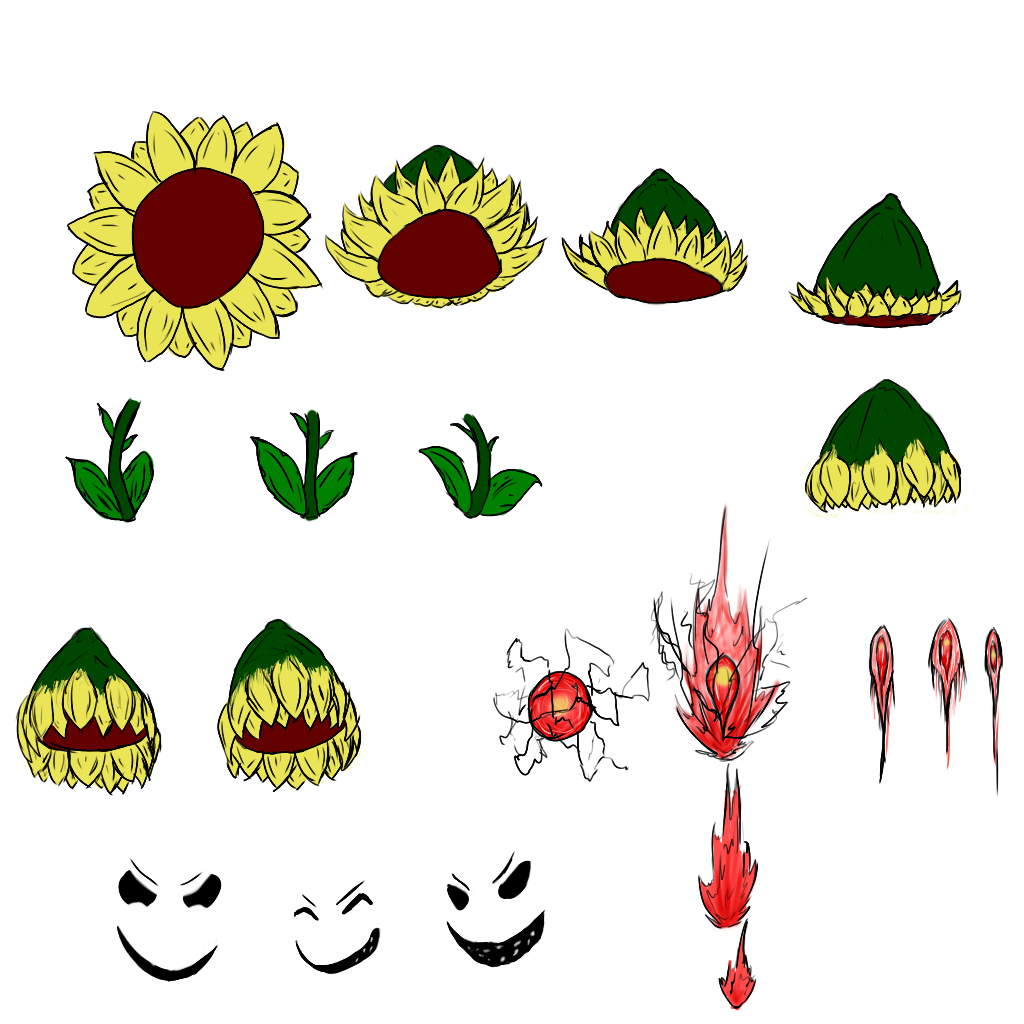
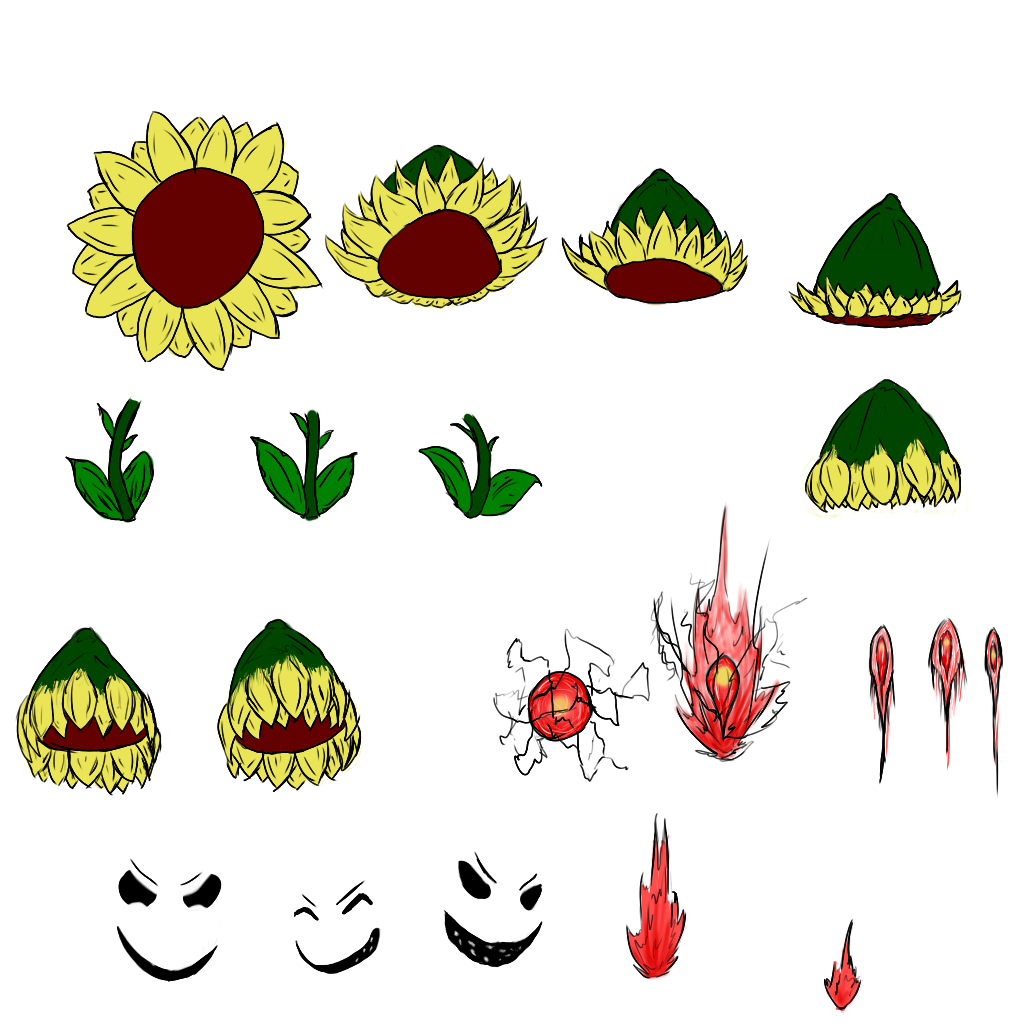
I brought in the sunflower and added a small animation. I also updated Voltage's movement code so that the decending was more natural and effective then the previous setup.

Changed region(s): [[0.5938, 0.75, 0.75, 1.0], [0.4375, 0.8438, 0.5312, 0.9375], [0.8125, 0.9062, 0.8438, 1.0]]

diff --git a/tutorial/Assets/scripts/voltMovement.cs b/tutorial/Assets/scripts/voltMovement.cs
@@ -16,6 +16,7 @@ public class voltMovement : MonoBehaviour {
 	bool facingRight = true;
 	bool curfacingRight;
 	string output = "";
+	float hover = -4.5f;
 
 	/*This is voltage's fuel levels*
 	public int maxFuel = 100; /*max amount of fuel*
@@ -52,6 +53,9 @@ public class voltMovement : MonoBehaviour {
 			pressed = true;
 		} else if (drop && !isGrounded && !pressed) {
 			GetComponent<Rigidbody2D> ().velocity = new Vector2 (GetComponent<Rigidbody2D> ().velocity.x, dropBoost (GetComponent<Rigidbody2D> ().velocity.y));
+			pressed = true;
+		} else if (jumping && !isGrounded) {
+			GetComponent<Rigidbody2D> ().velocity = new Vector2 (GetComponent<Rigidbody2D> ().velocity.x, hovering (GetComponent<Rigidbody2D> ().velocity.y));
 			pressed = true;
 		}
 		else if (!jumping) {
@@ -97,7 +101,13 @@ public class voltMovement : MonoBehaviour {
 	float jumpBoost (float y) {
 		if (y > 0)
 			return y + .5f;
-		return .5f;
+		return -.5f;
+	}
+
+	float hovering (float y) {
+		if (y > hover)
+			return y;
+		return hover;
 	}
 
 	float dropBoost (float y) {
